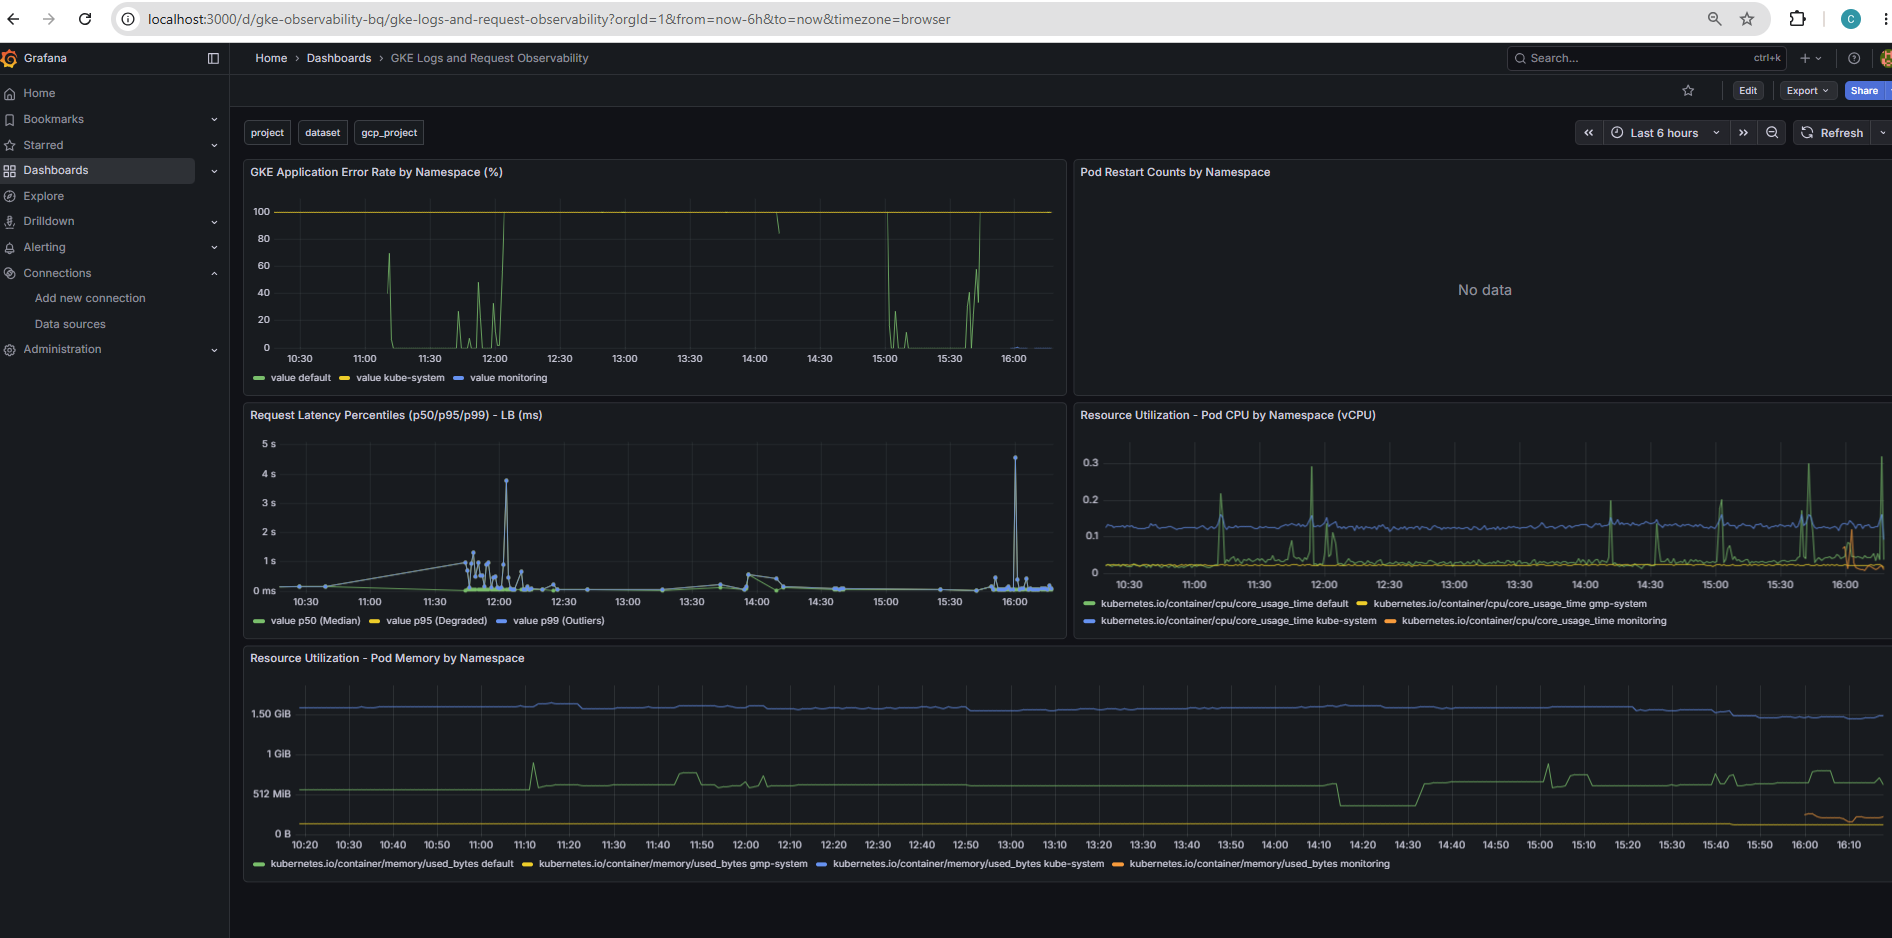
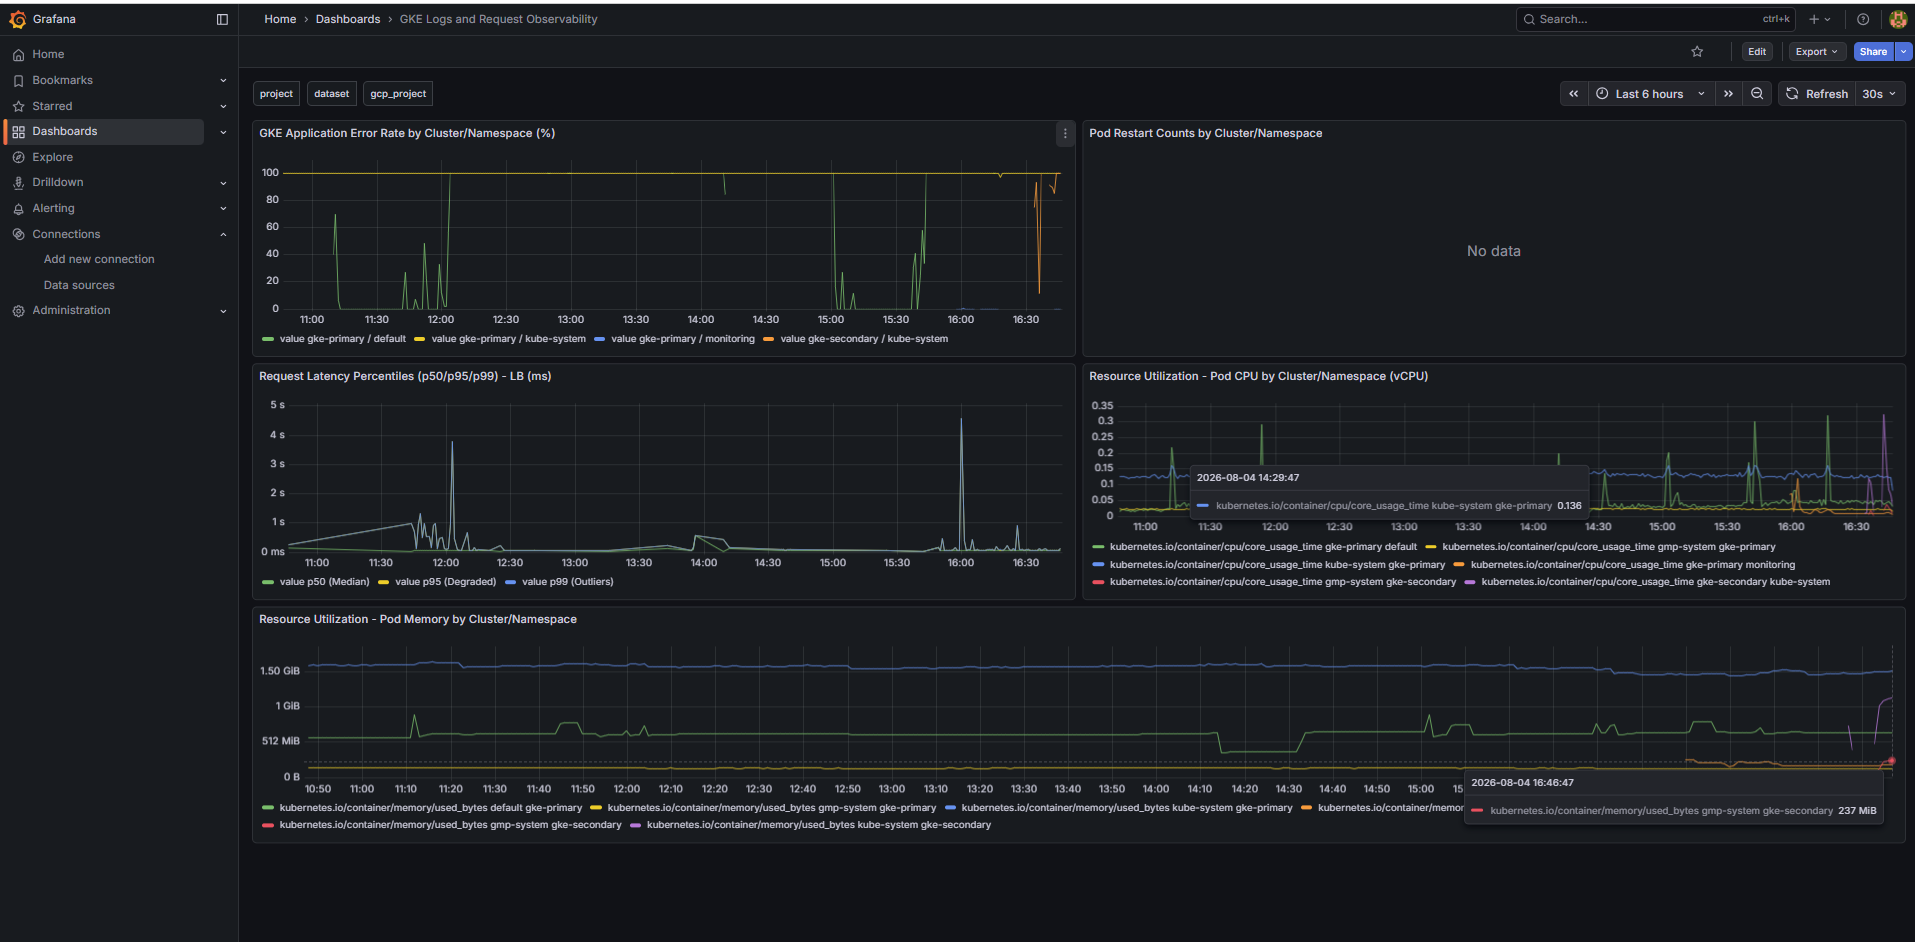
Update Grafana evidence and multi-cluster dashboard/query docs

diff --git a/docs/deployment-steps_executed.md b/docs/deployment-steps_executed.md
@@ -235,17 +235,18 @@ kubectl describe mci webapps-mci -n default
 gcloud logging sinks describe export-to-bq --project=project-pubsub-32009 --format="value(destination)"
 bq ls --project_id=project-pubsub-32009 logs_dataset_us
 
-# 7b. Create the read-only Grafana service account + key
+# 7b. Use keyless auth (Workload Identity) for Grafana datasource access
 $P="project-pubsub-32009"; $SA="grafana-bq-reader@$P.iam.gserviceaccount.com"
-gcloud iam service-accounts create grafana-bq-reader --project=$P --display-name="Grafana BigQuery reader"
 gcloud projects add-iam-policy-binding $P --member="serviceAccount:$SA" --role="roles/bigquery.dataViewer"
 gcloud projects add-iam-policy-binding $P --member="serviceAccount:$SA" --role="roles/bigquery.jobUser"
-gcloud iam service-accounts keys create grafana/grafana-bq-reader-key.json --iam-account=$SA
+gcloud projects add-iam-policy-binding $P --member="serviceAccount:$SA" --role="roles/monitoring.viewer"
+gcloud projects add-iam-policy-binding $P --member="serviceAccount:$SA" --role="roles/logging.viewer"
 ```
 
-Then in Grafana: add the **Google BigQuery** datasource (JWT file = the key
-above) and import `grafana/dashboard-ready.json` (maps to `project-pubsub-32009` /
-`logs_dataset_us`). Sample queries live in [bigquery-queries.sql](bigquery-queries.sql).
+Then in Grafana: add the **Google BigQuery** datasource using **GCE metadata server**
+authentication (no JSON key), set project = `project-pubsub-32009`, and import
+`grafana/dashboard-ready.json` (maps to `project-pubsub-32009` / `logs_dataset_us`).
+Sample queries live in [bigquery-queries.sql](bigquery-queries.sql).
 
 Full shutdown/startup and Grafana-via-Helm details: [k8s-shutdown-startup.md](k8s-shutdown-startup.md).
 
